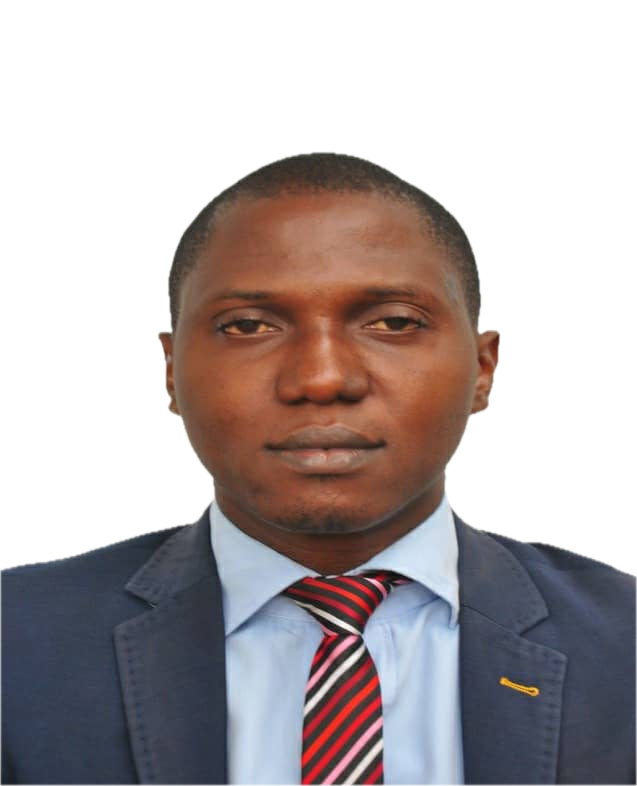
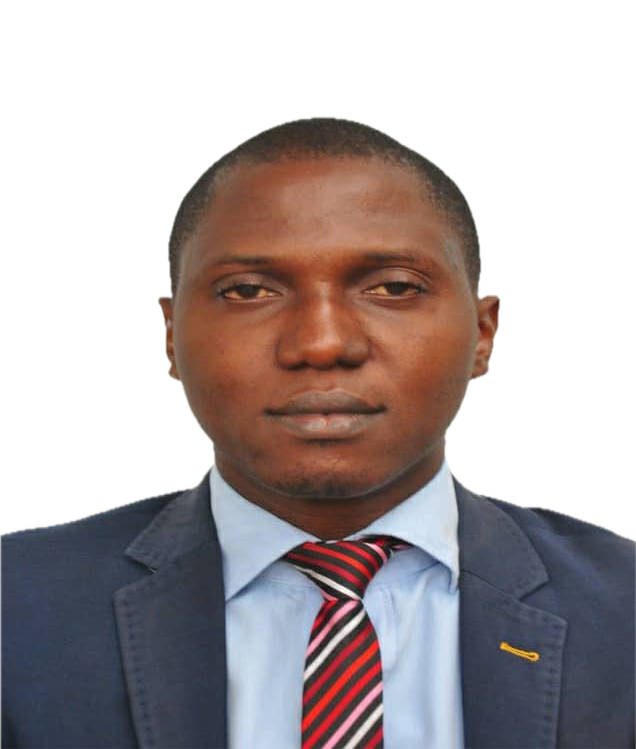
Coordinator added to abstract call

diff --git a/CallForAbstract.html b/CallForAbstract.html
@@ -242,17 +242,17 @@
             </div>
           </div>
 
-          <!-- <div class="speaker-card">
+          <div class="speaker-card">
             <div class="speaker-img-wrap">
               <img src="images/Perpetual.jpeg" alt="Dr Perpetual Eze-Idehen" />
             </div>
             <div class="speaker-body">
               <div class="speaker-name">Dr Perpetual Eze-Idehen</div>
               <div class="speaker-role">
-                <strong>Coordinator — Green STEM ECF</strong>
+                <strong>University of Manchester, United Kingdom</strong>
               </div>
             </div>
-          </div> -->
+          </div>
         </div>
 
         <h2 class="fade-in">Submission Criteria for the Plenary Session</h2>